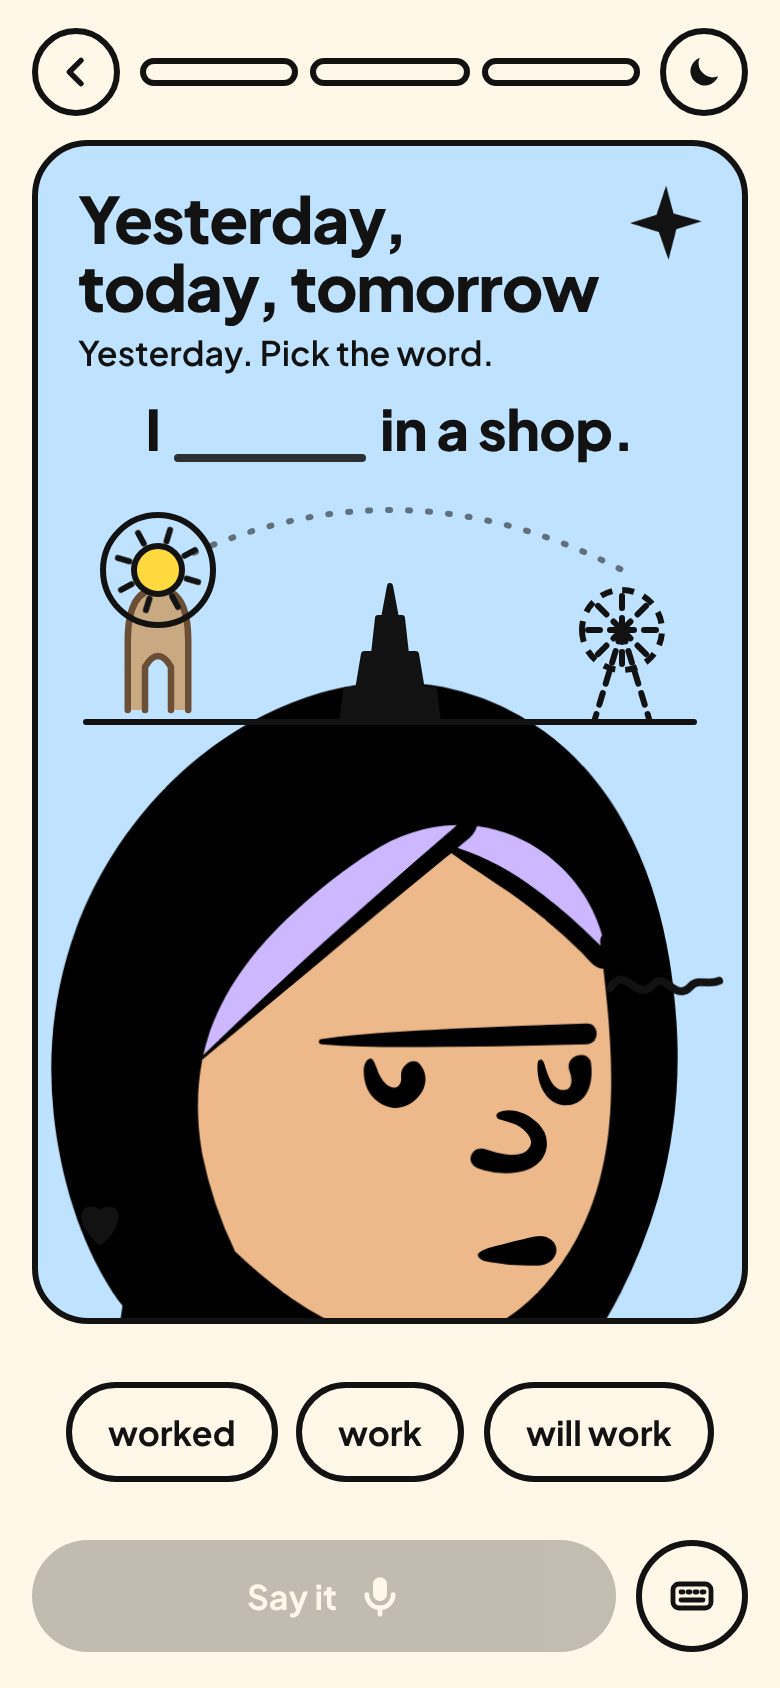
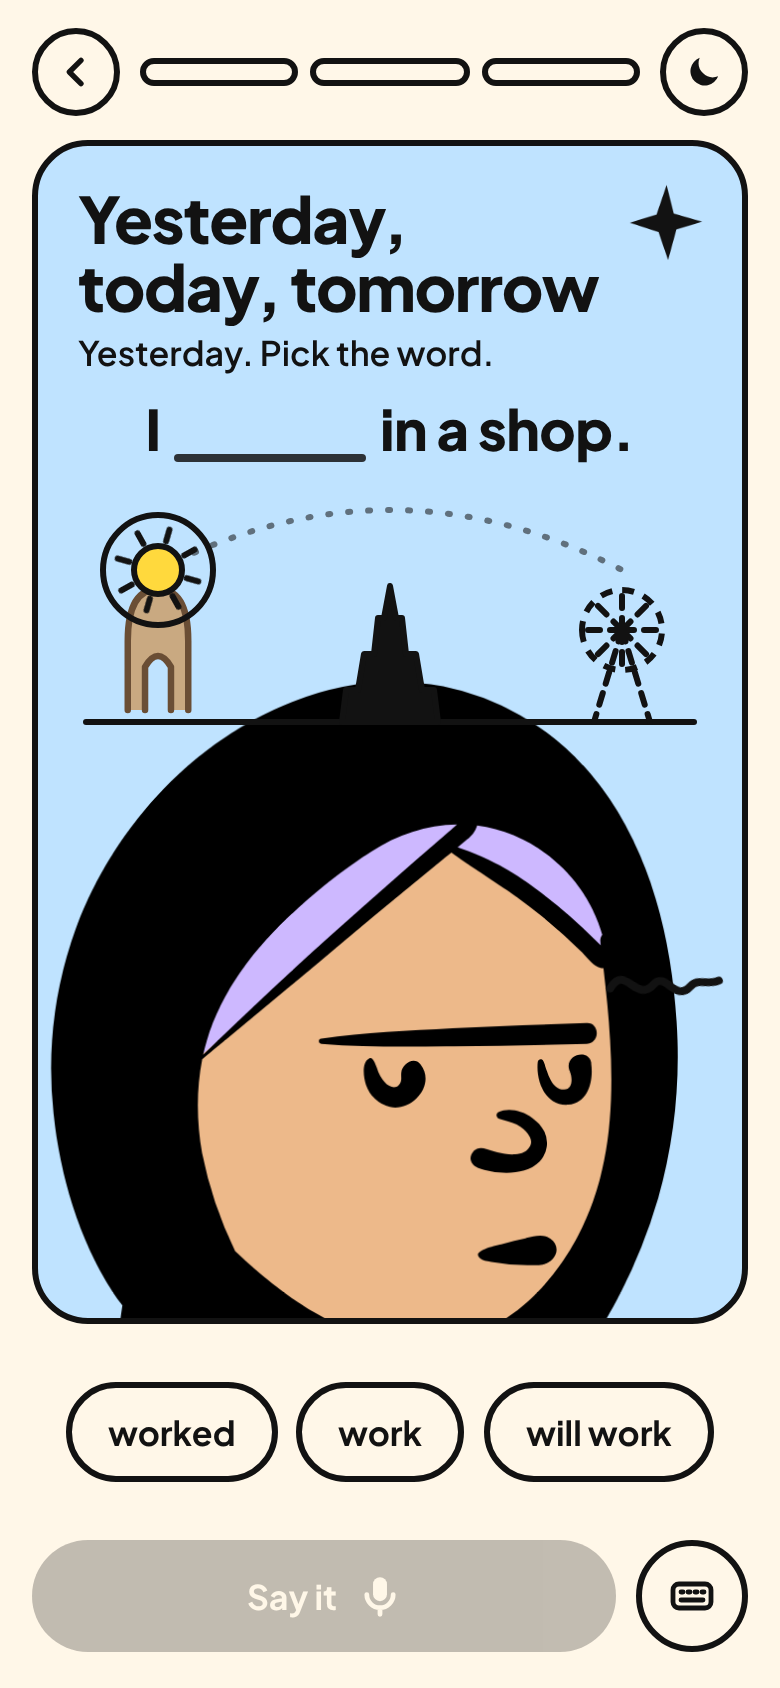
Prototype 5: Today and the path rebuilt on the doodles, with Welcome back and Session end
Claude-Session: https://claude.ai/code/session_01WMiyDundBQ1atNssiSuPtV

Changed region(s): [[0.5846, 0.4929, 0.6154, 0.5237], [0.2769, 0.5853, 0.3077, 0.6161]]

diff --git a/docs/prototypes/05-today-and-path.html b/docs/prototypes/05-today-and-path.html
@@ -5,6 +5,7 @@
 <meta name="viewport" content="width=device-width, initial-scale=1, viewport-fit=cover">
 <meta name="theme-color" content="#FFF7E8">
 <title>Today and the path - Learning Path prototype</title>
+<!-- Characters: Open Peeps and Open Doodles (both CC0, Pablo Stanley), recoloured to the brief and inlined from docs/design/cast/. Blobert is custom. -->
 <link rel="preconnect" href="https://fonts.googleapis.com">
 <link rel="preconnect" href="https://fonts.gstatic.com" crossorigin>
 <link href="https://fonts.googleapis.com/css2?family=Plus+Jakarta+Sans:wght@600;700;800&display=swap" rel="stylesheet">
